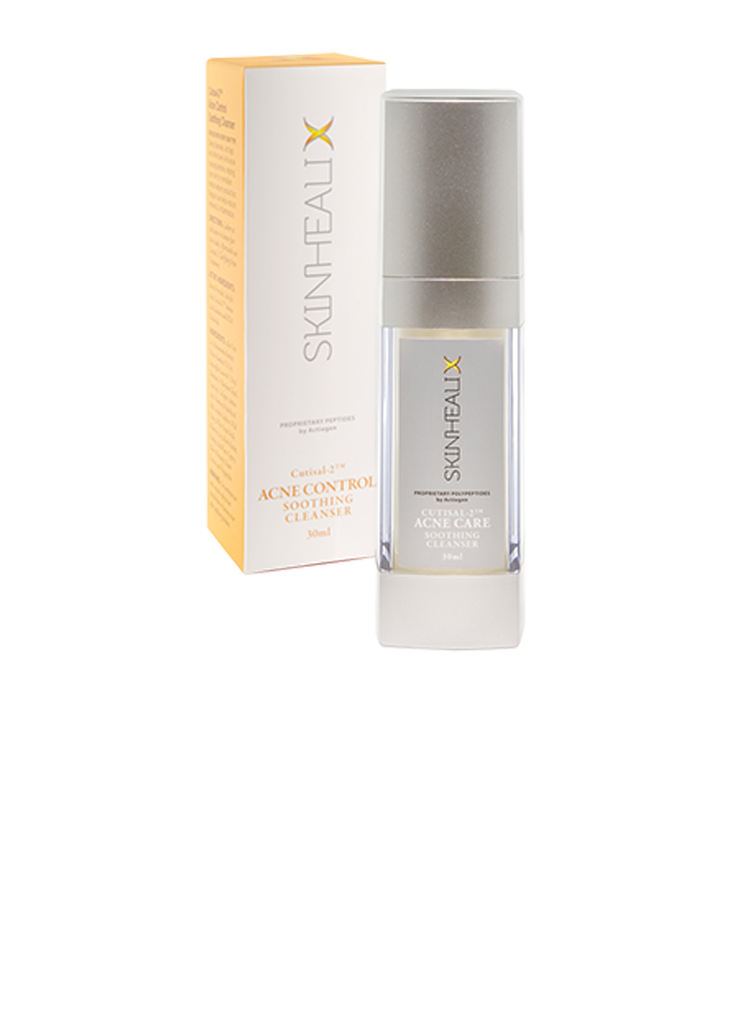
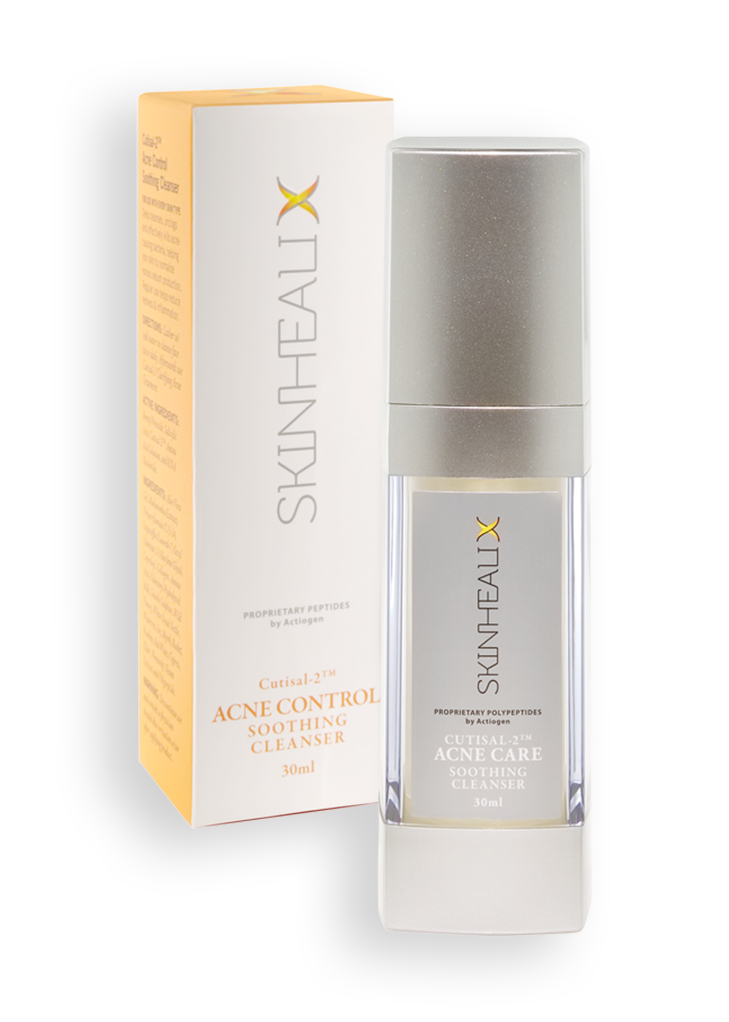
Update

diff --git a/index.html b/index.html
@@ -15,6 +15,7 @@
   <link rel="stylesheet" href="css/main.css" />
   <link rel="stylesheet" href="css/menu-style.css" />
   <link rel="stylesheet" href="css/bootstrap.min.css" />
+  <link rel="stylesheet" href="css/video.css">
   <link rel="stylesheet" href="css/footer.css" />
 
   <!-- Icon Fonts -->
@@ -284,16 +285,58 @@
               </h5>
               <p class="chemical-desc">
                 Our one-step Soothing Cleanser deep cleans,
-unclogs pores and effectively puts an end to
-acne-causing bacteria while helping your skin to
-normalize excess sebum production. Extracts of
-mahanimba, ivy, neem and red wine supplement
-our peptides antimicrobial activity.
+                unclogs pores and effectively puts an end to
+                acne-causing bacteria while helping your skin to
+                normalize excess sebum production. Extracts of
+                mahanimba, ivy, neem and red wine supplement
+                our peptides antimicrobial activity.
               </p>
             </div>
             <img src="assets/acne_cleansing.png" width="360" srcset="
             assets/acne_cleansing.png 500w,
             assets/acne_cleansing.png      729w
+                " sizes="(max-width: 479px) 84vw, 360px" alt="" class="chemical-card" />
+            <div class="chemical-line"></div>
+          </div>
+          <div class="w-clearfix w-slide">
+            <div class="chemical-content">
+              <h1><span class="chemical-number"></span>Silk C Serum</h1>
+              <h5 class="section-subtitle">
+                A powerful, restorative serum with an
+                industry-leading amount of Vitamin C,
+                Retinol and our proprietary peptides.
+              </h5>
+              <p class="chemical-desc">
+                Vitamin C is the one active ingredient that
+                launched a revolution in skin care, we just made
+                it better! After two decades, the body of peer
+                reviewed, scientific research supporting the use
+                of Vitamin C in skincare is compelling.
+              </p>
+            </div>
+            <img src="assets/solar_cleansing.png" width="360" srcset="
+            assets/solar_cleansing.png 500w,
+            assets/solar_cleansing.png       729w
+                " sizes="(max-width: 479px) 84vw, 360px" alt="" class="chemical-card" />
+            <div class="chemical-line"></div>
+          </div>
+          <div class="w-clearfix w-slide">
+            <div class="chemical-content">
+              <h1><span class="chemical-number"></span>SolarEscape</h1>
+              <h5 class="section-subtitle">
+                Sunscreen with Solagen S2™ [SPF 30]
+              </h5>
+              <p class="chemical-desc">
+                No matter what the SPF rating of your preferred sun protection
+                product, your ultraviolet coverage is still less than perfect. That
+                leaves skin open to genetic damage and fragmentation of its
+                connective tissues-which are the forerunners to pre-cancerous
+                change and premature aging of the skin.
+              </p>
+            </div>
+            <img src="assets/silk_c.png" width="360" srcset="
+            assets/silk_c.png 500w,
+            assets/silk_c.png       729w
                 " sizes="(max-width: 479px) 84vw, 360px" alt="" class="chemical-card" />
             <div class="chemical-line"></div>
           </div>
@@ -305,12 +348,12 @@ our peptides antimicrobial activity.
               </h5>
               <p class="chemical-desc">
                 A skin care formulation of natural
-botanical extracts that gradually reduces
-the appearance of stretch marks.
-Clinically tested at SUNY, Stretch Mark Eraser™
-allows for the degradation of irregular collagen
-bundles that develop when skin stretches too
-rapidly.
+                botanical extracts that gradually reduces
+                the appearance of stretch marks.
+                Clinically tested at SUNY, Stretch Mark Eraser™
+                allows for the degradation of irregular collagen
+                bundles that develop when skin stretches too
+                rapidly.
               </p>
             </div>
             <img src="assets/stretch.png" width="360" srcset="
@@ -334,16 +377,48 @@ rapidly.
   </div>
   <div id="origin" data-w-id="46272565-11a5-ac9f-1b67-6146d0bde299" class="origin-section">
     <div class="origin-bg"></div>
-
     <div class="origin-content">
-      <h1 class="origin-title">Check out our videos and get a deeper insight about our products.</h1>
-      <p class="origin-text">Actiogen focus since its inception has been on the forefront of the burgeoning fields of
+      <div class="gallery">
+        <h1 class="origin-title">Check out our videos and get a deeper insight about our products.</h1>
+        <div class="single-video">
+          <figure>
+            <iframe src="https://www.youtube.com/embed/A4J_eoE9AkM" allow="accelerometer; autoplay; encrypted-media; gyroscope; picture-in-picture" allowfullscreen></iframe>
+          </figure>
+        </div>
+        <div class="single-video">
+          <figure>
+            <iframe src="https://youtube.com/embed/xddQnary2xQ" allow="accelerometer; autoplay; encrypted-media; gyroscope; picture-in-picture" allowfullscreen></iframe>
+          </figure>
+        </div>
+        <div class="single-video">
+          <figure>
+            <iframe src="https://www.youtube.com/embed/Nbh90eI_hoM" allow="accelerometer; autoplay; encrypted-media; gyroscope; picture-in-picture" allowfullscreen></iframe>
+          </figure>
+        </div>
+        <div class="single-video">
+          <figure>
+            <iframe src="https://www.youtube.com/embed/VdHNpVdEItg" allow="accelerometer; autoplay; encrypted-media; gyroscope; picture-in-picture" allowfullscreen></iframe>
+          </figure>
+        </div>
+        <div class="single-video">
+          <figure>
+            <iframe src="https://www.youtube.com/embed/ylBOcShIvTI" allow="accelerometer; autoplay; encrypted-media; gyroscope; picture-in-picture" allowfullscreen></iframe>
+          </figure>
+        </div>
+        <div class="single-video">
+          <figure>
+            <iframe src="https://www.youtube.com/embed/DShXdDAm6aw" allow="accelerometer; autoplay; encrypted-media; gyroscope; picture-in-picture" allowfullscreen></iframe>
+          </figure>
+        </div>
+        </div>
+      <!-- <h1 class="origin-title">Check out our videos and get a deeper insight about our products.</h1> -->
+      <!-- <p class="origin-text">Actiogen focus since its inception has been on the forefront of the burgeoning fields of
         bio-engineered peptides and dermaceutical science. To that end, it has created new procedures and techniques
         that have yielded substantial advances in dermaceutical science and wound care.
         Actiogen was developed to bring to market products that are based on novel peptide chemistry. Actiogen’s
         principle focus to date has been in the development of products for the skin care, dermaceutical and wound care
         industries.
-      </p>
+      </p> -->
     </div>
   </div>
 
@@ -465,15 +540,15 @@ rapidly.
     <style>
       .w-slider-dot {
         position: relative;
-        width: 16px;
-        height: 16px;
+        width: 12px;
+        height: 12px;
         background-color: #111111;
         margin-right: 10px;
       }
 
       .w-slider-dot.w-active {
-        width: 18px;
-        height: 18px;
+        width: 14px;
+        height: 14px;
         background-color: white;
         border: solid 4px rgb(0, 0, 0);
         top: 1px;

diff --git a/css/main.css b/css/main.css
@@ -2184,13 +2184,14 @@ textarea.w-select {
 }
 
 .chemical-card {
+  z-index: 1;
   position: absolute;
   left: 150px;
   margin-top: 50px;
   margin-bottom: 50px;
   margin-left: 50vw;
   float: left;
-  box-shadow: 0 15px 50px 0 rgba(0, 0, 0, 0.25);
+  /* box-shadow: 0 15px 50px 0 rgba(0, 0, 0, 0.25); */
 }
 
 .chemical-content {
@@ -3028,7 +3029,7 @@ html.w-mod-js *[data-ix="contact-button-init"] {
     bottom: 100px;
     display: block;
     width: 200px;
-    margin-top: 0px;
+    margin-top: 20px;
     margin-right: auto;
     margin-left: auto;
     box-shadow: 0 10px 30px 0 rgba(0, 0, 0, 0.4);

diff --git a/css/video.css b/css/video.css
@@ -1,0 +1,29 @@
+/* taking care of responsive layout */
+.gallery {
+    display: flex;
+    flex-wrap: wrap;
+    margin: 0.5rem;
+    margin-top: -680px;
+  }
+
+  h1{
+      margin-bottom: 40px;
+  }
+  
+  .single-video {
+    width: 24rem;
+    flex-grow: 1;
+    margin: 0.5rem;
+  }
+  
+  /* taking care of the video aspect-ratio */
+  figure {
+    position: relative;
+    padding: 0 0 56.25% 0;
+  }
+  
+  figure iframe {
+    position: absolute;
+    width: 100%;
+    height: 100%;
+  }
